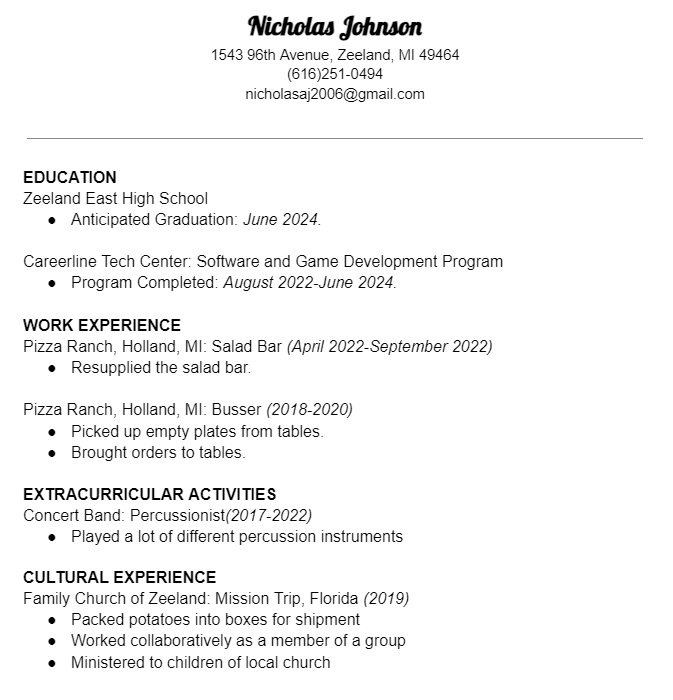
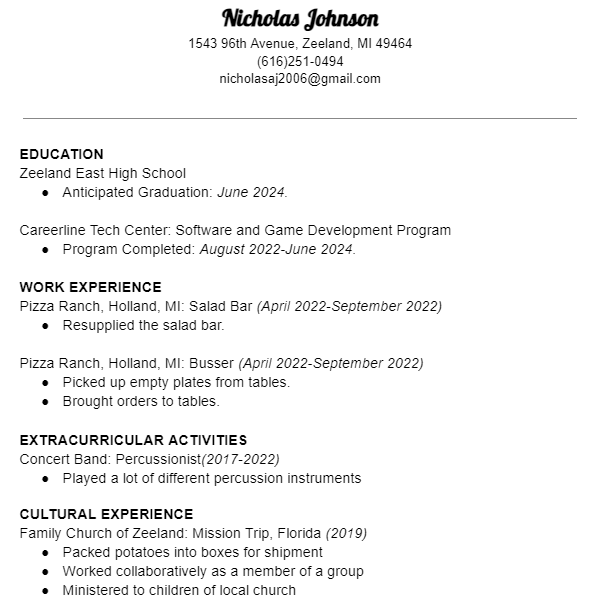
finished it

diff --git a/MyPortfolio/index.html b/MyPortfolio/index.html
@@ -21,7 +21,12 @@
             .flex-container {
                 flex-wrap: wrap;
             }
-            
+            .resumeimage {
+                min-width: 100%;
+            }
+            .resumediv {
+                margin-left: 0%;
+            }
         }
         @media screen and (max-width:575px) { 
             
@@ -252,10 +257,13 @@
         <div class="flex-container">
             <div class="flex-border flex-items resume" style="">
                 <h2 style="text-align: center;">Resume</h2>
-                <a href="https://docs.google.com/document/d/1QF1GINhdYXVIpysC01DVp4RERhTV3qdHWu9ZiaiRGIU/edit"
-                    target="blank_" style="margin-left: 33%;">
-                    <img style="width: 35%; margin-left: auto; margin-right: auto;" src="images/Resume.png">
-                </a>
+                <!-- <a href="https://docs.google.com/document/d/1QF1GINhdYXVIpysC01DVp4RERhTV3qdHWu9ZiaiRGIU/edit"
+                    target="blank_" class="" style="margin-left: 33%;"> -->
+                <div class="resumediv">
+                    <img class="resumeimage" style="margin-left: auto; margin-right: auto;" src="images/Resume.png">
+                </div>
+                    
+                <!-- </a> -->
             </div>
         </div>
     </div>

diff --git a/MyPortfolio/main.css b/MyPortfolio/main.css
@@ -157,3 +157,9 @@ nav {
     padding-top: 70px;
     height:100%;
 }
+.resumeimage {
+    width: 51%;
+}
+.resumediv {
+    margin-left: 33%;
+}
